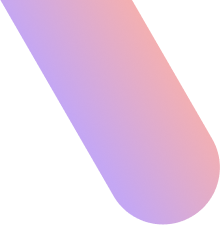
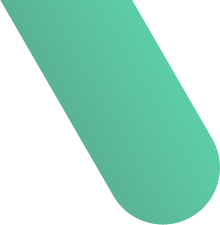
login btn color changed

diff --git a/src/tailwind.css b/src/tailwind.css
@@ -334,9 +334,15 @@ hover:text-primary hover:before:!bg-primary ltr:before:mr-2 rtl:before:ml-2 dark
     @apply border-dark text-dark shadow-none hover:bg-dark hover:text-white;
   }
 
-  .btn-gradient {
+  /* .btn-gradient {
     @apply bg-gradient-to-r from-[#EF1262] to-[#4361EE] hover:to-[#EF1262] hover:from-[#4361EE] text-white;
-  }
+  } */
+
+  .btn-gradient {
+    @apply bg-gradient-to-r from-[#006241] to-[#00A65A] hover:to-[#006241] hover:from-[#00A65A] text-white;
+}
+
+
 
   /* Badge */
   .badge {
